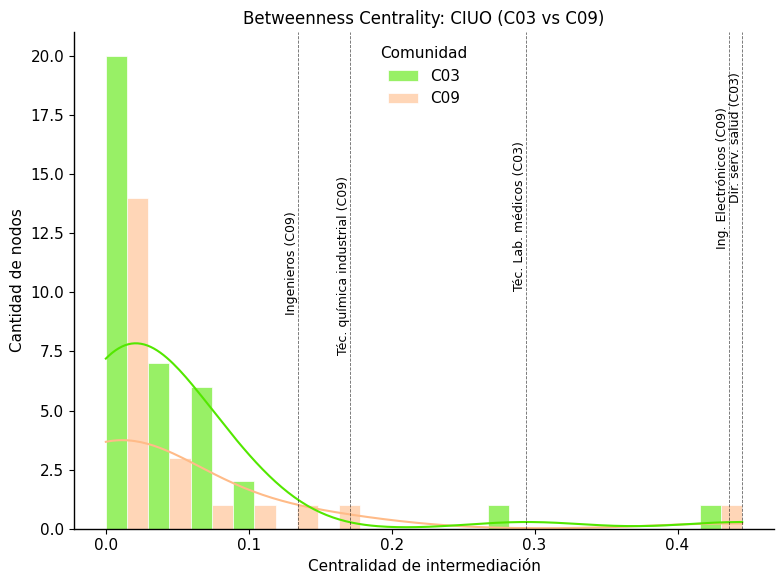
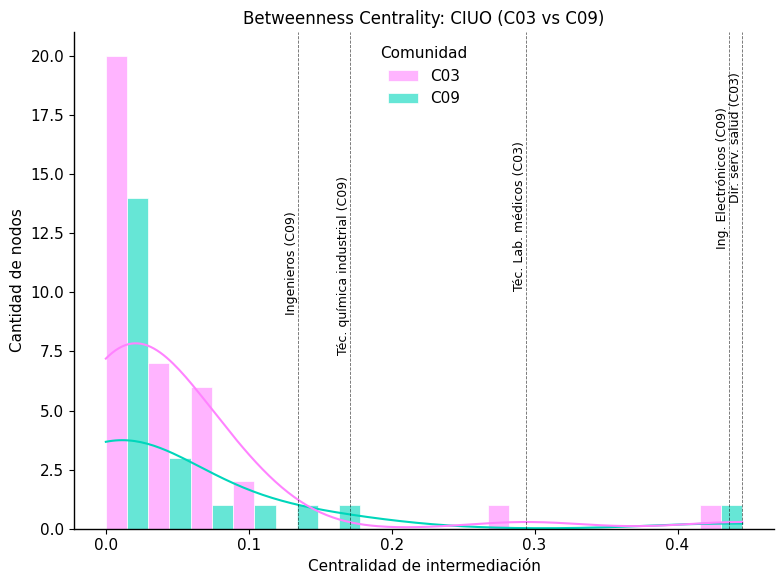
Add community filtering to nodelist in main function

Changed region(s): [[0.1224, 0.0925, 0.949, 0.9247], [0.4898, 0.1233, 0.551, 0.1849]]

diff --git a/scripts/19_public_policy_by_communities.py b/scripts/19_public_policy_by_communities.py
@@ -71,7 +71,14 @@ def main() -> None:
 	max_caes_id = snakemake.config.get("max_caes_id")
 
 	nodelist = pd.read_csv(snakemake.input[1], dtype={id_col: int})
+
 	community_col = "community"
+	nodelist = dl.filter_communities(
+		nodelist,
+		feature_col=community_col,
+		max_code=snakemake.config["community"]["max"].get(class_, 98),
+	)
+
 	if community_col not in nodelist.columns:
 		raise KeyError(
 			f"Community column '{community_col}' not found in {snakemake.input[1]}"